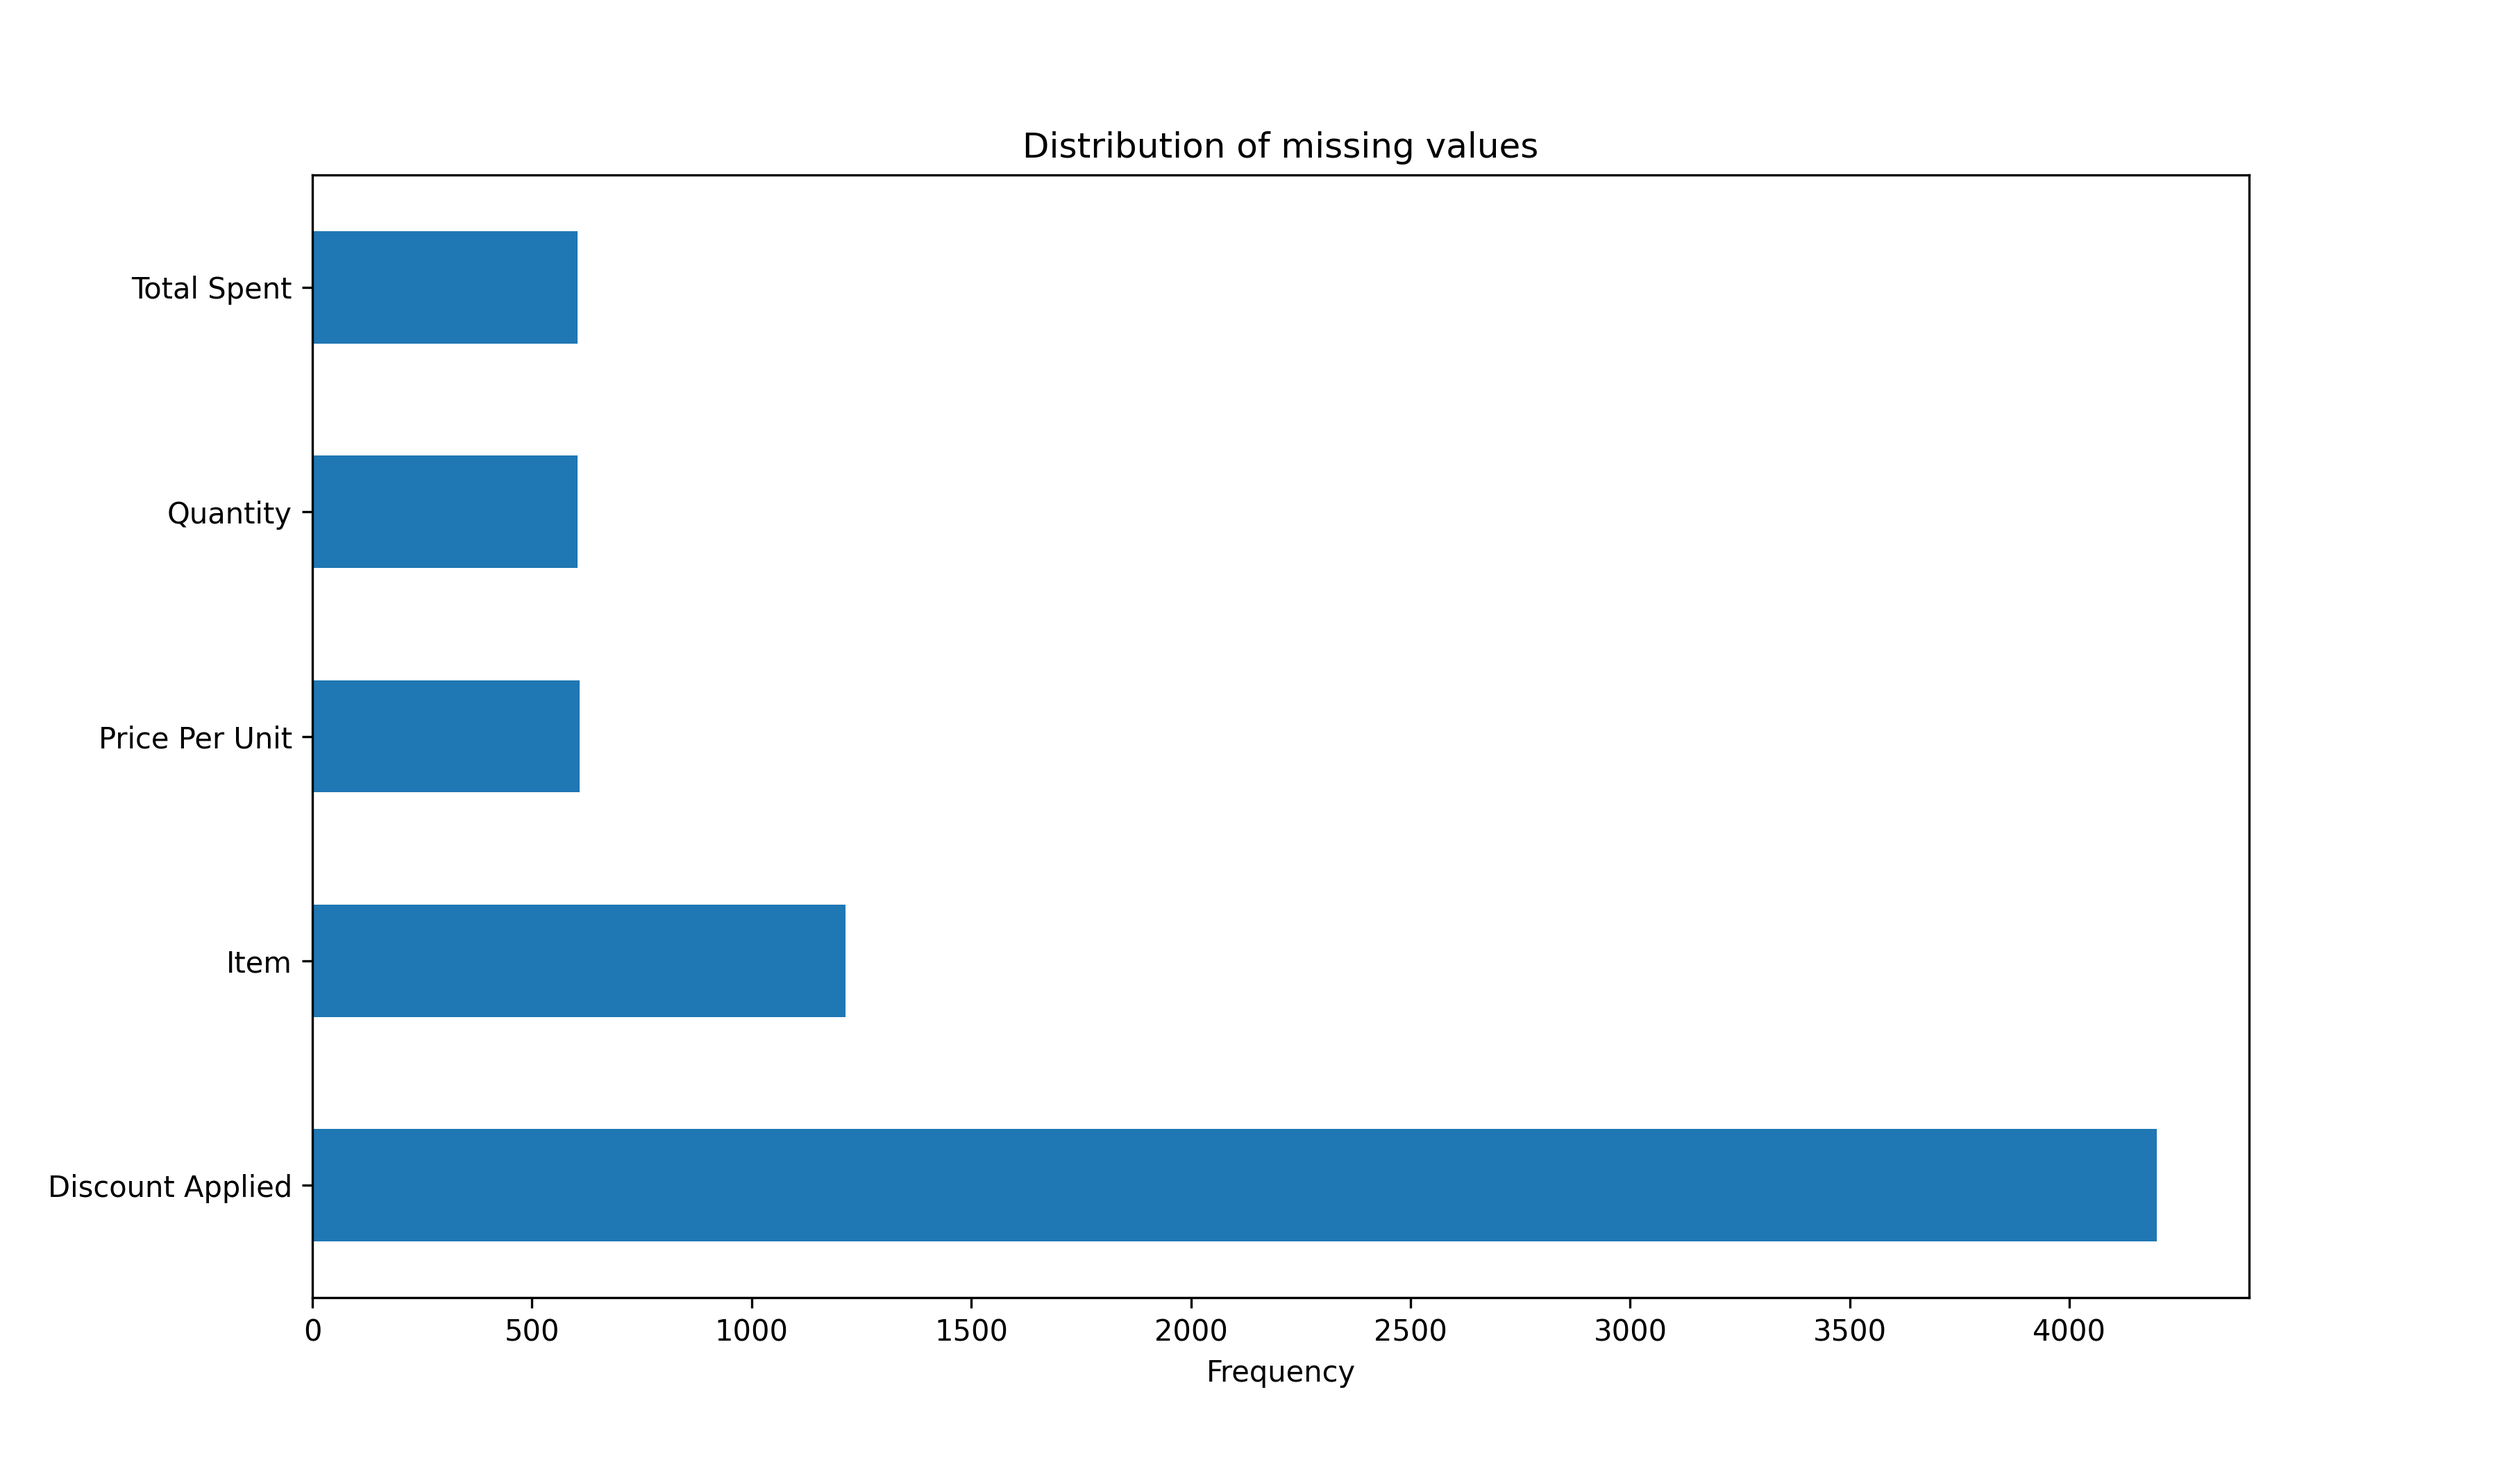
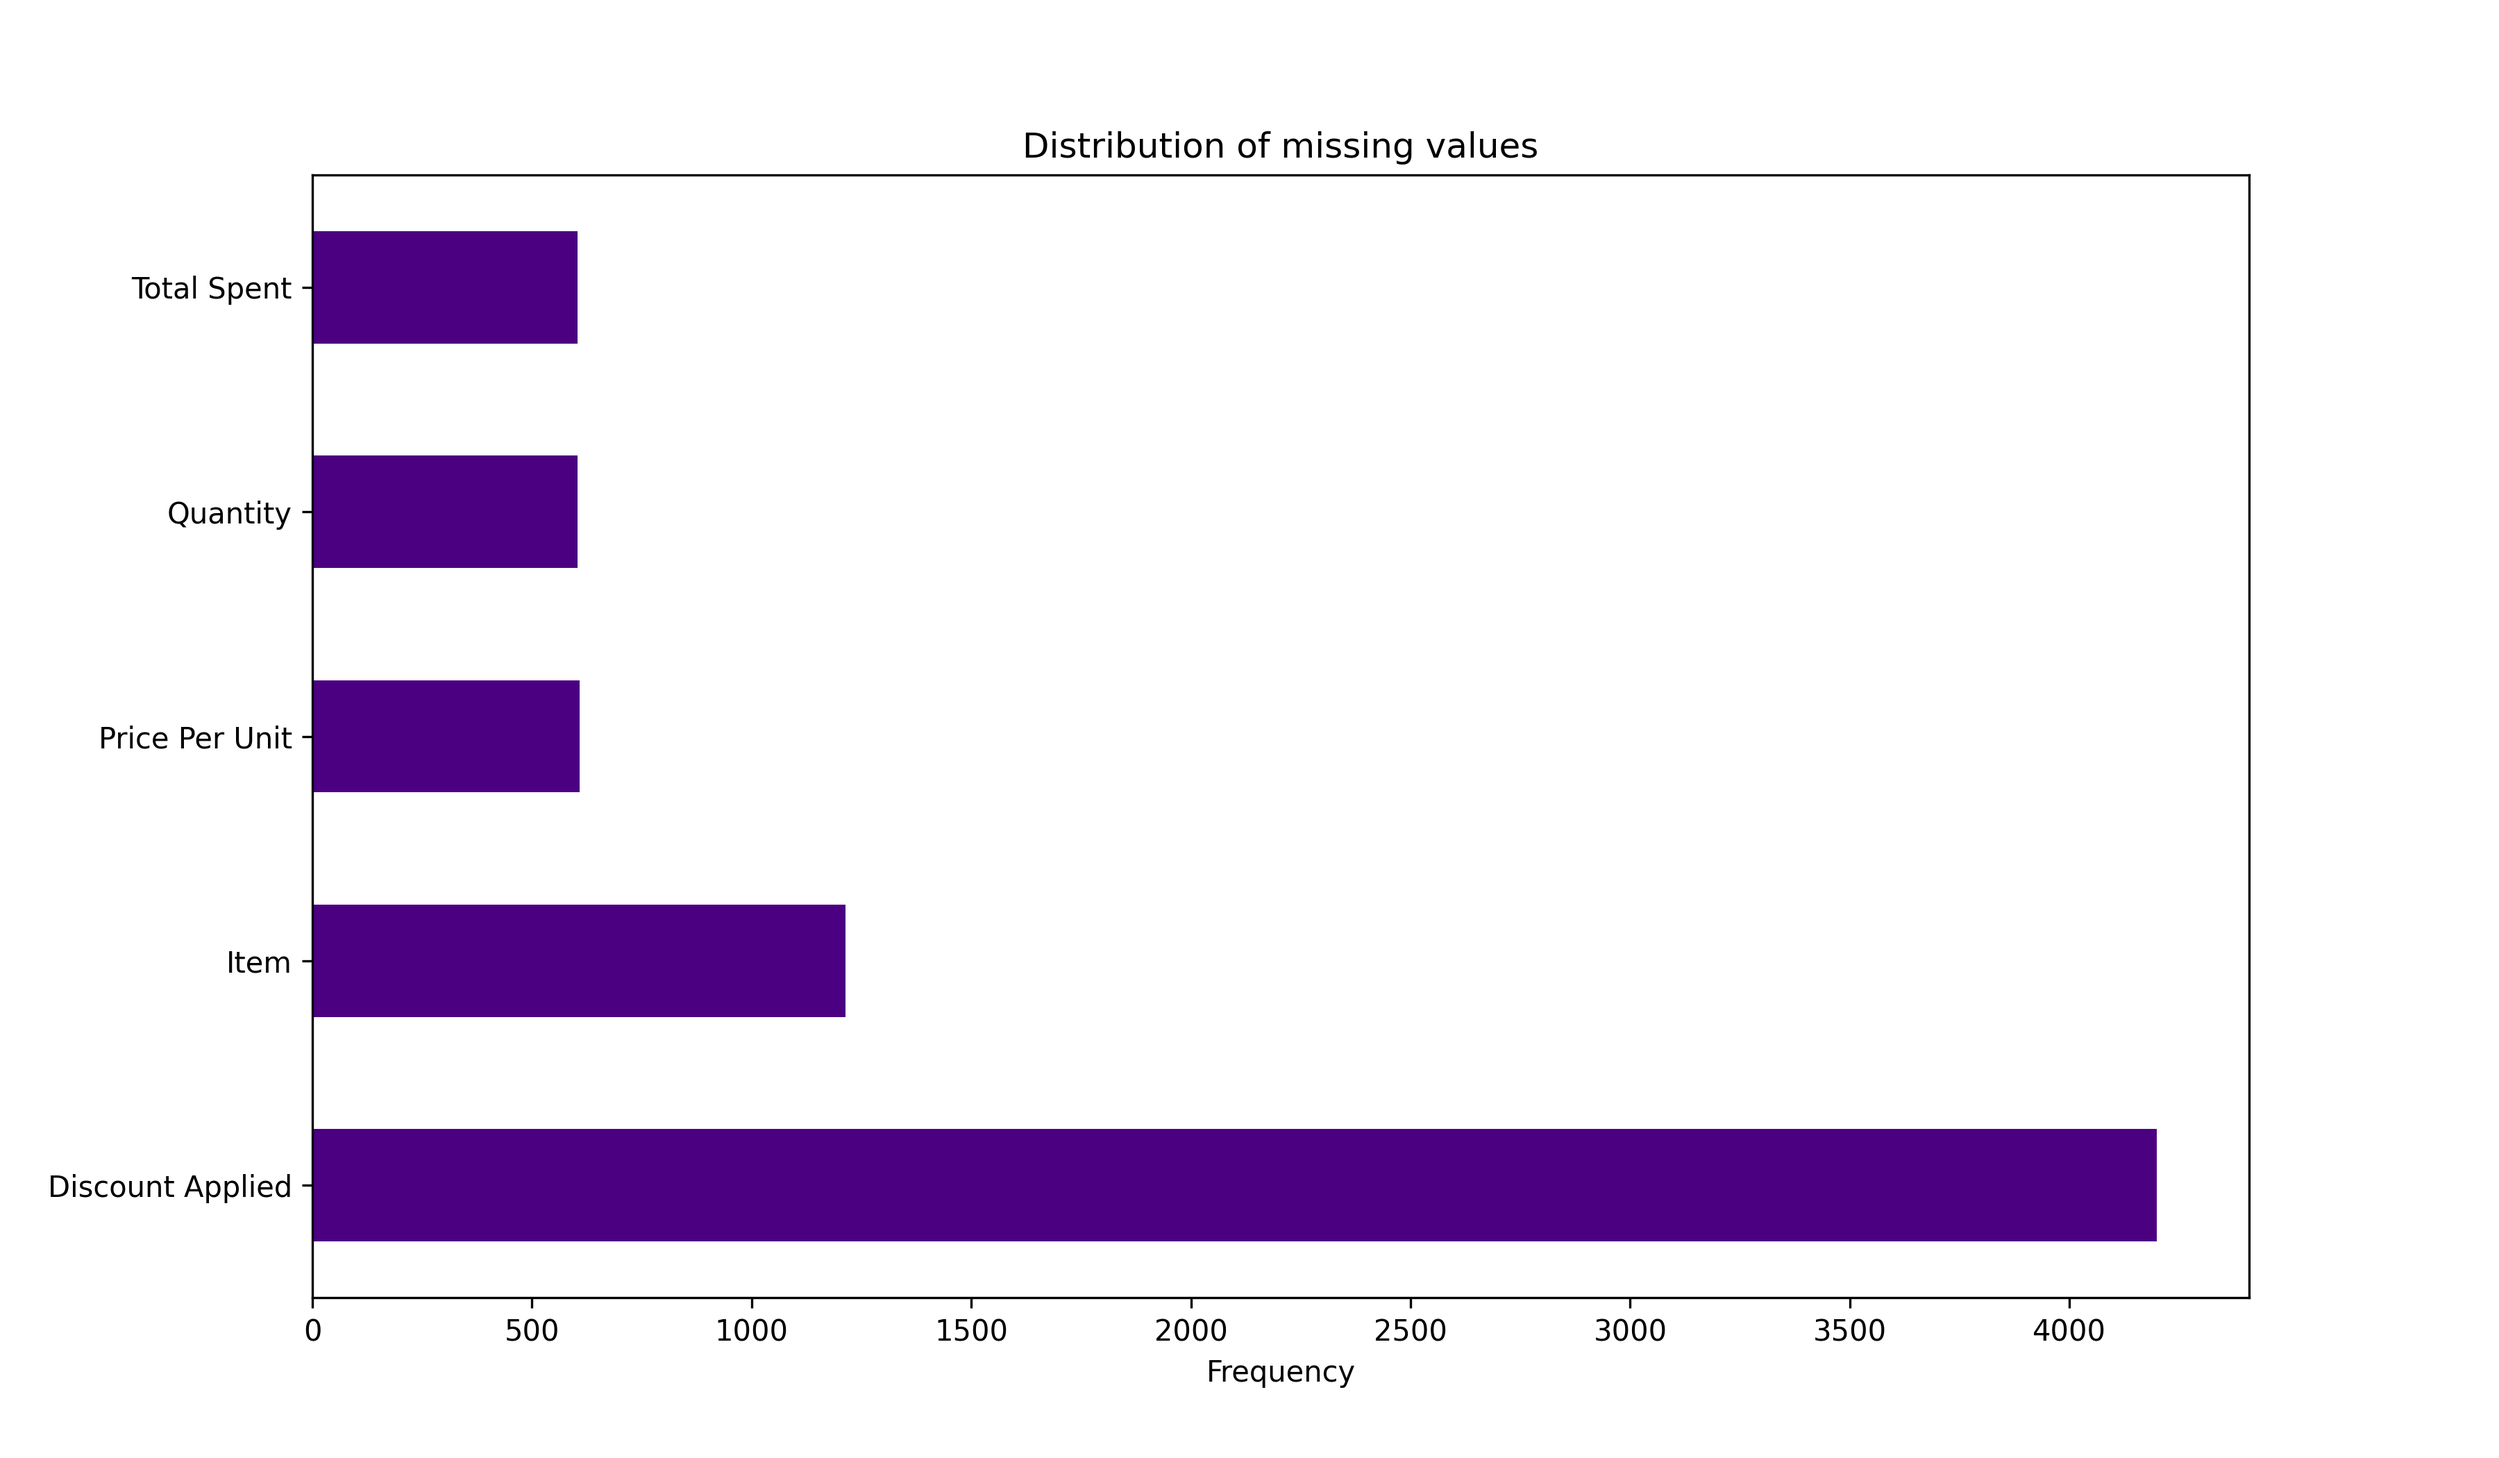
Retail stores sales

diff --git a/src/eda.py b/src/eda.py
@@ -54,15 +54,15 @@ def numeric_columns(df : pd.DataFrame):
     numeric_cols = df.select_dtypes(include=[np.number]).columns
     for i, col in enumerate(numeric_cols,1):
         log.info(f'{i}. {col:<15} | Min : {df[col].min():<3} | Max : {df[col].max()}') 
-        return numeric_cols
+    return numeric_cols
 
 # ---------categorical columns - number of unique values each category contains
 def categorical_columns(df : pd.DataFrame):
     categorical_cols = df.select_dtypes(exclude=[np.number]).columns
     for i, col in enumerate(categorical_cols,1):
         uniques = df[col].unique()
-        log.info(f'{i}. {col} | Unique : {df[col].nunique()} | Examples : {uniques[:4]}')
-        return categorical_cols
+        log.info(f'{i}. {col:<20} | Unique : {df[col].nunique():<3} | Examples : {uniques[:4]}')
+    return categorical_cols
     
 # -----------detect outliers using the IQR method------------
 def outliers_detection(df: pd.DataFrame, col: str):
@@ -74,16 +74,11 @@ def outliers_detection(df: pd.DataFrame, col: str):
     outliers = df[(df[col] < lower_bound) | (df[col] > upper_bound)]
     return lower_bound, upper_bound, outliers
 
-# ----------outlier summary - return lower range, upper range and number of outliers
+# ----------outlier summary - return lower range, upper range and number of outliers------
 def outlier_summary(df: pd.DataFrame, numeric_cols : list[str]):
-    for col in numeric_cols:
+    for i, col in enumerate(numeric_cols,1):
         lower, upper, outlier = outliers_detection(df, col)
-        outlier_df = pd.DataFrame({
-            'Lower_bound' :lower,
-            'Upper_bound' : upper,
-            'Outliers' : len(outlier)
-        })
-    return outlier_df
+        log.info(f'{i}. {col:<15} | Number of outliers : {len(outlier):<3} | Range : ({lower} - {upper})')
 
 # ----------- missing values - missing percentages -------------
 def missing_values(df : pd.DataFrame):
@@ -101,14 +96,14 @@ def missing_values(df : pd.DataFrame):
 # ------------plot missing values -----------
 def plt_missing_values(df : pd.DataFrame):
     df['missing_values'].plot(kind='barh',figsize=(12,7),title='Distribution of missing values',
-            xlabel='Frequency')
+            xlabel='Frequency',color='indigo')
     plt.savefig(plot_dir / 'missing_values.png', dpi=300)
     log.info('Image successfully saved!')
     plt.show()
 
 # -----------check for duplicates in the dataset--------------
 def duplicate_data(df : pd.DataFrame):
-    duplicates = df[df.duplicated]
+    duplicates = df[df.duplicated()]
     log.info(f'Number of duplicates : {len(duplicates)}')
     if len(duplicates) == 0:
         log.info('No duplicates found')
@@ -128,6 +123,7 @@ def run_eda(filename: str = 'data/retail_stores_sales.csv'):
     cat_cols = categorical_columns(df)
     duplicates = duplicate_data(df)
     outliers = outlier_summary(df, num_cols)
+    correlation = correlation_in_data(df)
 
     return {
         'data' : df,
@@ -137,7 +133,8 @@ def run_eda(filename: str = 'data/retail_stores_sales.csv'):
         'num_cols' : num_cols,
         'cat_cols' : cat_cols,
         'duplicates' : duplicates,
-        'outliers' : outliers
+        'outliers' : outliers,
+        'correlation' : correlation
     }
 
 if __name__ == '__main__':
